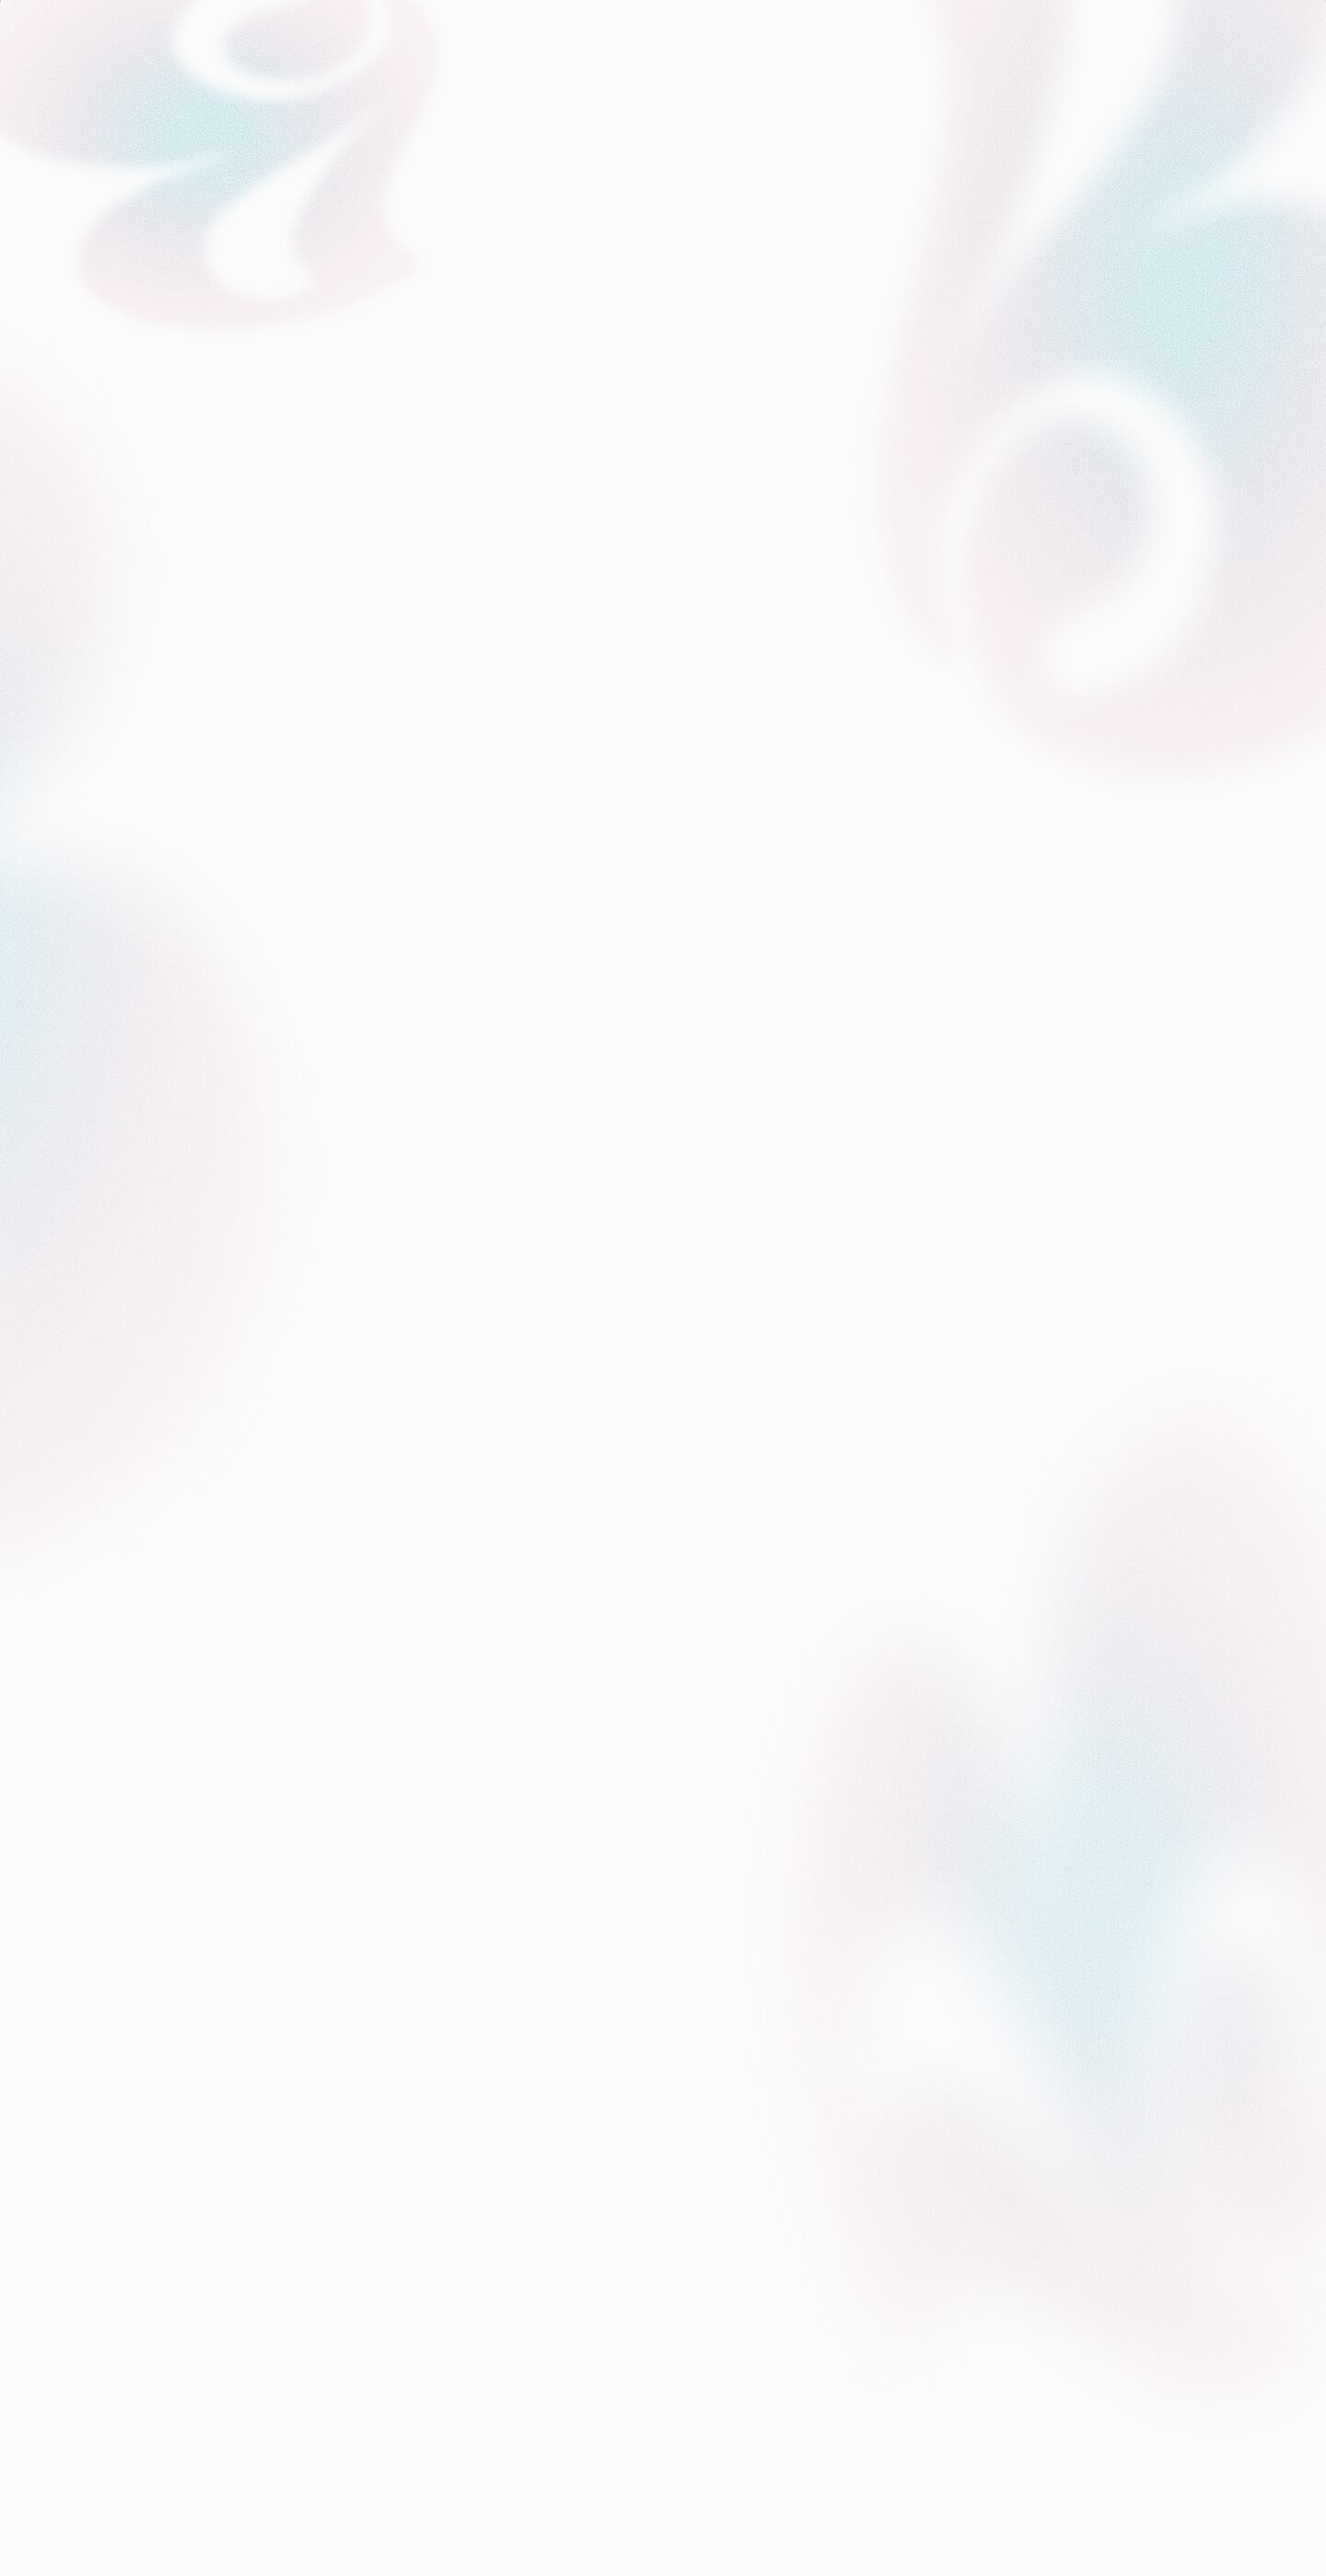
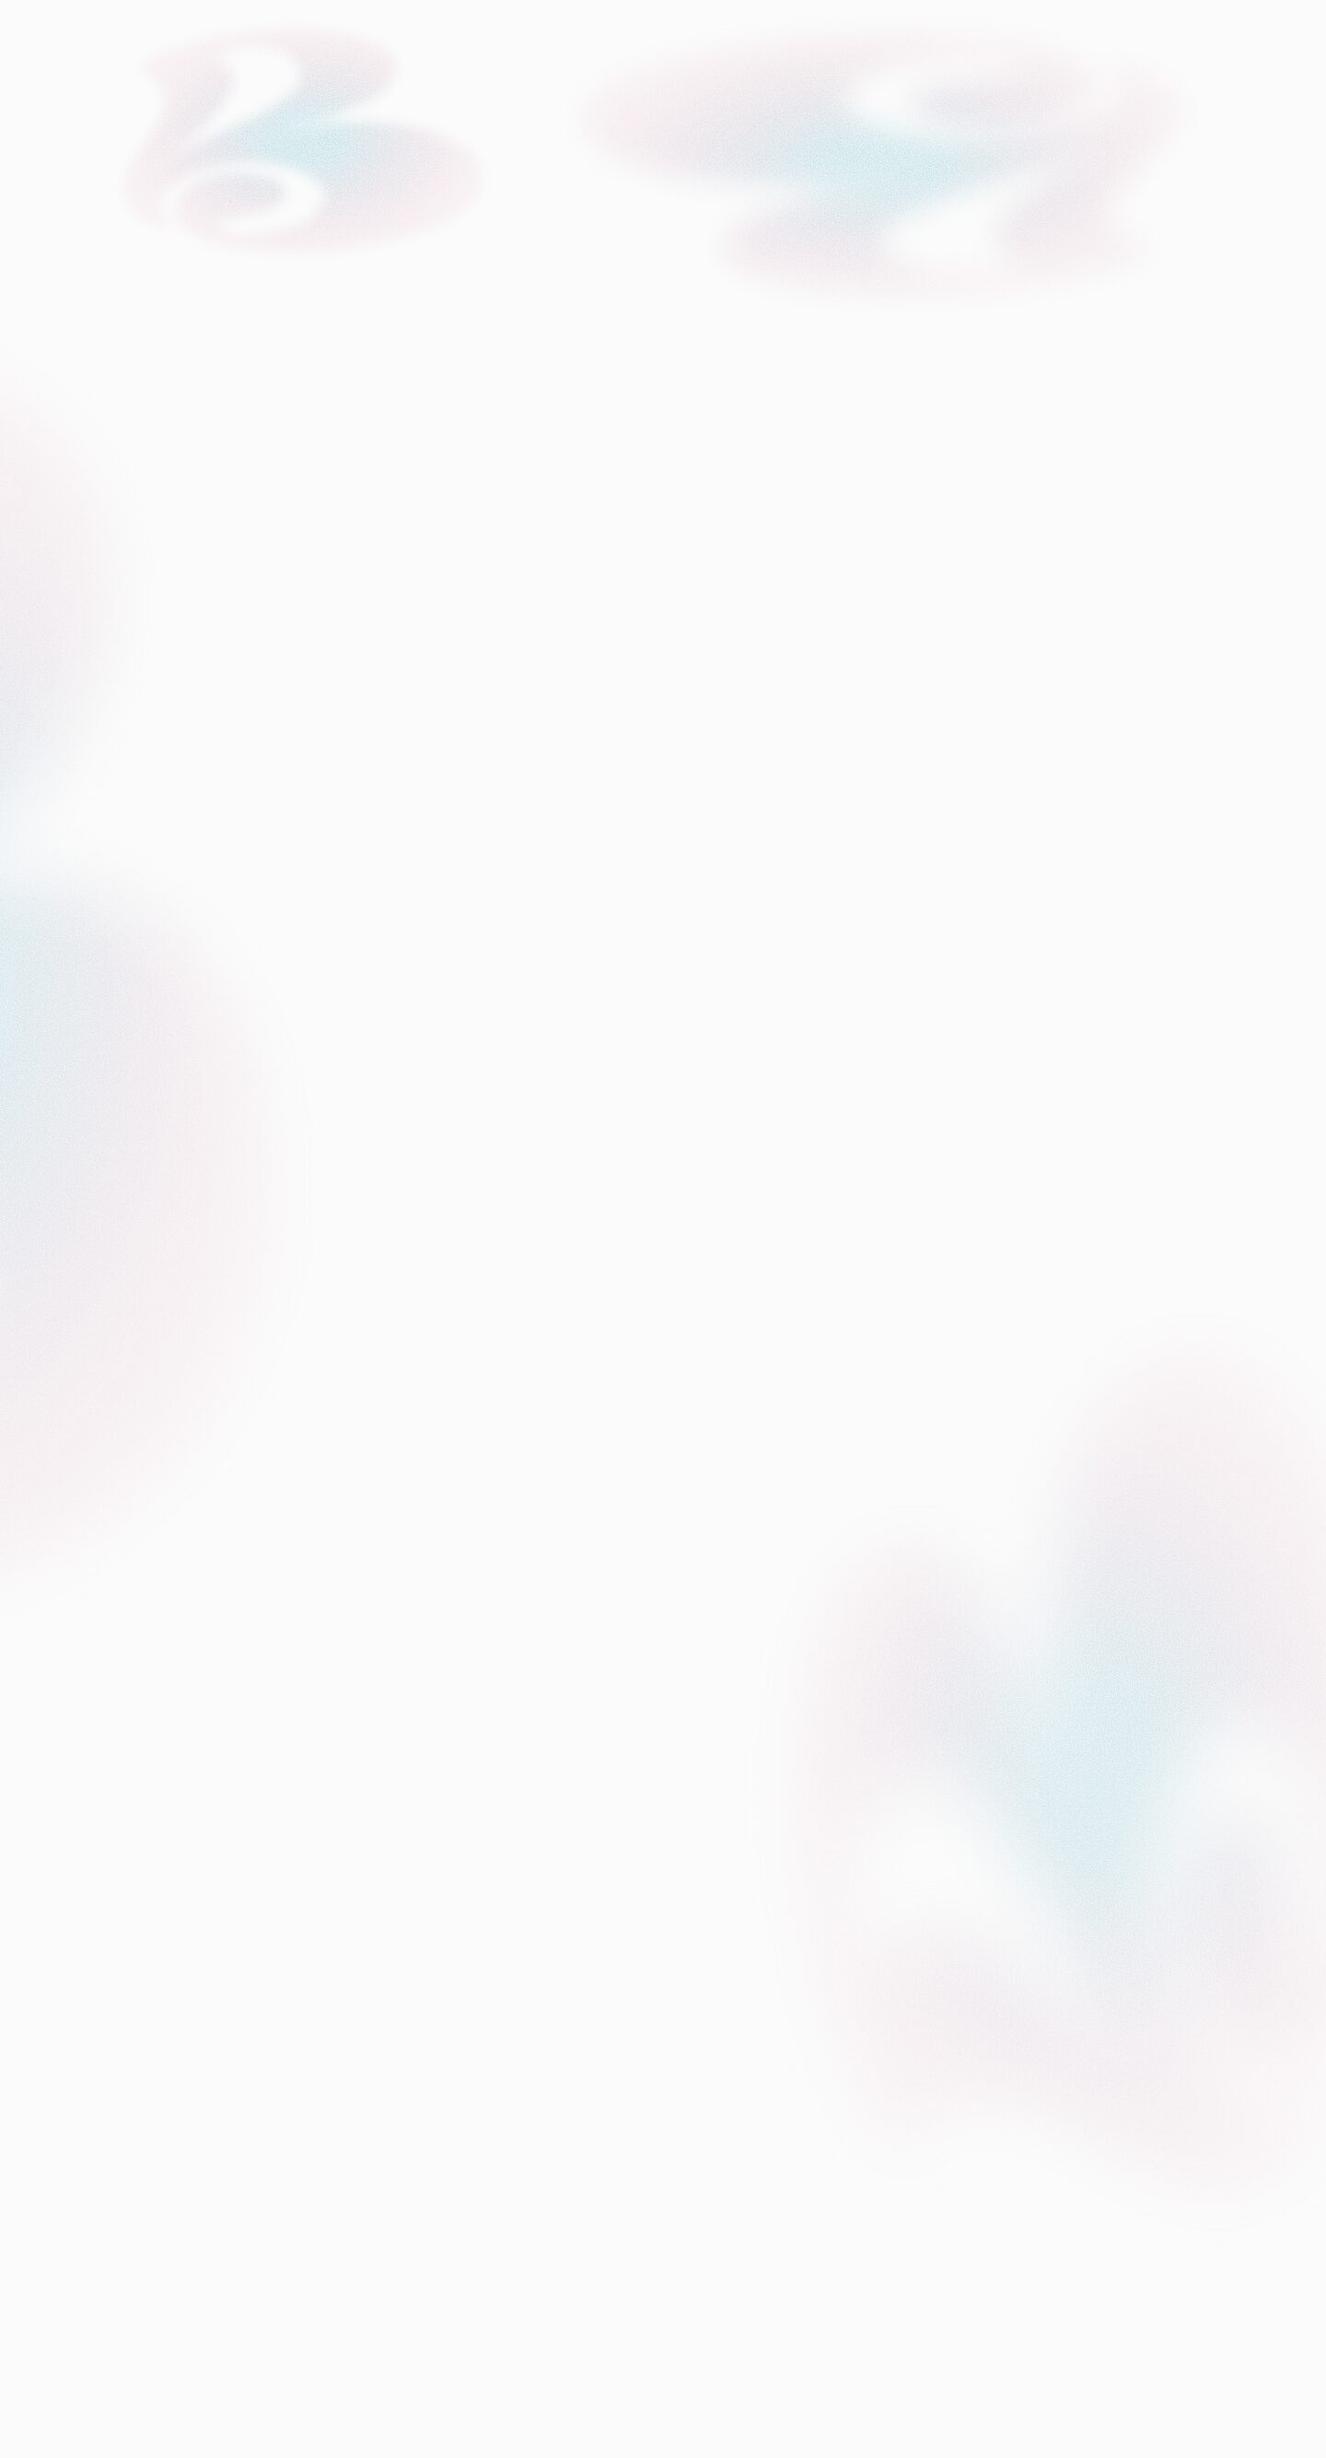
Home: sync with updated Figma mock-up (nav, name weight, wider mosaic, swirls, footer)
Claude-Session: https://claude.ai/code/session_01BTVQWqZsRjn6QnVQHH6sLA

diff --git a/css/style.css b/css/style.css
@@ -20,9 +20,10 @@ a{color:inherit;text-decoration:none}
 .wrap{max-width:var(--max);margin:0 auto;padding:0 var(--pad)}
 
 /* nav — sizes follow the 1440 Figma frame, scaled with the window */
-.nav{display:flex;justify-content:space-between;align-items:center;height:max(48px,min(4.1vw,59px));padding:0 max(20px,min(2.78vw,40px));background:#fff;position:relative;z-index:5}
-.nav .name,.nav .links,.menu-btn{font-family:var(--mono);font-size:max(14px,min(1.39vw,20px));font-weight:400;color:var(--muted)}
-.nav .links{display:flex;gap:max(24px,min(3.9vw,56px))}
+.nav{display:flex;justify-content:space-between;align-items:center;height:max(48px,min(4.1vw,59px));padding:0 max(20px,min(10.83vw,156px)) 0 max(20px,min(8.89vw,128px));background:#fff;position:relative;z-index:5}
+.nav .name,.nav .links,.menu-btn{font-family:var(--font);font-size:14px;font-weight:400;color:var(--muted)}
+.nav .name{font-weight:500}
+.nav .links{display:flex;gap:max(28px,min(5.4vw,78px))}
 .nav .links a,.nav .name{transition:color .2s}
 .nav .links a:hover,.nav .links a.on,.nav .name:hover{color:var(--ink)}
 .menu-btn{display:none;background:none;border:0;cursor:pointer}
@@ -31,10 +32,10 @@ a{color:inherit;text-decoration:none}
 .home .sheet{background:var(--bg) url(../images/home/bg.jpg) 0 max(48px,min(4.1vw,59px))/100% auto no-repeat}
 
 /* hero */
-.hero{position:relative;padding-top:min(6.1vw,88px);text-align:center}
-.hero h1{font-size:max(40px,min(5.56vw,80px));font-weight:600;letter-spacing:0;line-height:1;color:#000}
+.hero{position:relative;padding-top:min(7.71vw,111px);text-align:center}
+.hero h1{font-size:max(40px,min(5.56vw,80px));font-weight:500;letter-spacing:0;line-height:1;color:#000}
 .rotator{display:block;font-family:var(--mono);font-weight:500;color:#1A1A1A}
-.rotator.typer{width:min(37.4vw,539px);margin:min(2.29vw,33px) 0 0 calc(50% - min(16.74vw,241px));text-align:left;min-height:min(7.3vw,105px);line-height:1.3;font-size:max(16px,min(1.94vw,28px))}
+.rotator.typer{width:min(37.4vw,539px);margin:min(.97vw,14px) 0 0 calc(50% - min(18.68vw,269px));text-align:left;min-height:min(7.01vw,101px);line-height:1.3;font-size:max(16px,min(1.94vw,28px))}
 .typer .typed{display:inline}
 .caret{display:inline-block;width:2px;height:1.1em;margin-left:3px;vertical-align:-.18em;background:var(--blue);animation:blink 1.05s steps(1) infinite}
 .typer.busy .caret{animation:none}
@@ -44,7 +45,7 @@ a{color:inherit;text-decoration:none}
 .dot{display:inline-block;width:8px;height:8px;border-radius:50%;background:var(--blue);flex:none}
 
 /* mosaic: 3 columns, every column adds up to the same height so the bottoms line up */
-.mosaic{display:grid;grid-template-columns:repeat(3,1fr);column-gap:min(1.11vw,16px);max-width:1440px;margin:0 auto;padding:min(3.4vw,49px) min(6.11vw,88px) min(15.8vw,228px)}
+.mosaic{display:grid;grid-template-columns:480fr 410fr 480fr;align-items:start;column-gap:min(1.18vw,17px);max-width:1440px;margin:0 auto;padding:min(4.79vw,69px) min(1.25vw,18px) min(3.47vw,50px)}
 .col{display:flex;flex-direction:column;gap:min(1.18vw,17px)}
 .slot{position:relative;display:block;background:var(--tile);overflow:hidden}
 .slot img{width:100%;height:100%;object-fit:cover;transition:transform .6s cubic-bezier(.2,.8,.2,1)}
@@ -131,14 +132,15 @@ a.slot:hover .tag,a.slot:focus-visible .tag{opacity:1;transform:none}
 .portrait{aspect-ratio:520/620}
 
 /* footer */
-footer{background:var(--footer);color:#FAFAF8;font-family:var(--mono)}
-footer .in{max-width:1440px;margin:0 auto;padding:min(3.75vw,54px) min(5.2vw,75px) min(3.5vw,51px) min(5.97vw,86px);display:flex;justify-content:space-between;gap:40px}
-footer h2{font-size:max(20px,min(2.08vw,30px));font-weight:500;line-height:1.3}
-footer .upd{color:var(--muted);margin-top:min(7.2vw,104px);font-size:max(12px,min(1.39vw,20px))}
-footer .cols{display:flex;gap:min(5.1vw,74px);font-size:max(13px,min(1.39vw,20px))}
-footer .cols>div{min-width:max(80px,min(7.6vw,110px))}
-footer .cols h5{font-size:inherit;font-weight:700;margin-bottom:min(1.6vw,23px)}
-footer .cols a{display:block;color:var(--muted);margin-bottom:min(1.6vw,23px);line-height:1.3;transition:color .2s}
+footer{background:var(--footer);color:#FAFAF8}
+footer .in{max-width:1440px;margin:0 auto;padding:min(2.78vw,40px) min(3.26vw,47px) min(2.85vw,41px) min(3.19vw,46px);display:flex;justify-content:space-between;gap:40px}
+footer h2{font-family:var(--mono);font-size:max(20px,min(1.94vw,28px));font-weight:500;line-height:1.3}
+footer .upd{color:var(--muted);margin-top:min(5.97vw,86px);font-size:14px}
+footer .cols{display:flex;font-size:14px;line-height:18px;padding-top:min(.76vw,11px)}
+footer .cols>div{min-width:max(110px,min(11.1vw,160px))}
+footer .cols>div:last-child{min-width:0}
+footer .cols h5{font-size:14px;font-weight:700;margin-bottom:16px}
+footer .cols a{display:block;color:var(--muted);margin-bottom:16px;transition:color .2s}
 footer .cols a:last-child{margin-bottom:0}
 footer .cols a:hover{color:#fff}
 
@@ -149,6 +151,7 @@ footer .cols a:hover{color:#fff}
 @media (max-width:760px){
   :root{--pad:20px}
   .sheet{border-radius:0 0 32px 32px}
+  .nav{padding:0 20px}
   .nav .links{display:none;position:absolute;top:48px;left:0;right:0;background:#fff;flex-direction:column;gap:18px;padding:20px;font-size:16px;box-shadow:0 8px 16px rgba(0,0,0,.05)}
   .nav.open .links{display:flex}
   .menu-btn{display:block}
@@ -156,7 +159,7 @@ footer .cols a:hover{color:#fff}
   .hero h1{font-size:44px}
   .rotator.typer{width:auto;margin:16px 0 0;font-size:17px;min-height:2.7em}
   .creds{flex-direction:column;align-items:center;gap:6px;font-size:14px;margin-top:8px}
-  .mosaic{grid-template-columns:1fr;row-gap:12px;padding:32px 20px 72px}
+  .mosaic{grid-template-columns:1fr;row-gap:12px;padding:32px 20px 56px}
   .col{display:contents}
   .slot.empty{display:none}
   .slot .tag{opacity:1;transform:none;left:8px;bottom:8px;font-size:10px;padding:4px 7px}

diff --git a/index.html b/index.html
@@ -7,7 +7,7 @@
 <meta name="description" content="Bua Gomutputra — designer who engineers. Arts, Technology & the Business of Innovation at USC Iovine and Young. Based in Los Angeles.">
 <link rel="preconnect" href="https://fonts.googleapis.com"><link rel="preconnect" href="https://fonts.gstatic.com" crossorigin>
 <link href="https://fonts.googleapis.com/css2?family=Geist:wght@400;500;600&family=Geist+Mono:wght@400;500;700&family=Kiwi+Maru:wght@400;500&display=swap" rel="stylesheet">
-<link rel="stylesheet" href="css/style.css?v=1794968742">
+<link rel="stylesheet" href="css/style.css?v=1794969485">
 </head>
 <body class="home">
 <div class="sheet">
@@ -26,25 +26,26 @@
 <main id="work">
   <section class="mosaic">
     <div class="col">
-      <a class="slot" href="sideby.html" style="aspect-ratio:410/394" data-slot="1"><img src="images/sideby/hero.jpg" alt="SideBy" data-label="SideBy" style="object-position:left center"><span class="tag"><b>SideBy</b> Concept · 2026</span></a>
-      <a class="slot" href="duolingo-poker.html" style="aspect-ratio:410/462" data-slot="2"><img src="images/duolingo-poker/cover.jpg" alt="DuoPoker" data-label="DuoPoker" style="object-fit:contain;background:#fff"><span class="tag"><b>DuoPoker</b> Concept · 2026</span></a>
-      <div class="slot empty" style="aspect-ratio:410/301" data-slot="3"></div>
-      <div class="slot empty" style="aspect-ratio:410/511" data-slot="4"></div>
-      <div class="slot empty" style="aspect-ratio:410/564" data-slot="5"></div>
+      <a class="slot" href="sideby.html" style="aspect-ratio:480/394" data-slot="1"><img src="images/sideby/hero.jpg" alt="SideBy" data-label="SideBy" style="object-position:left center"><span class="tag"><b>SideBy</b> Concept · 2026</span></a>
+      <a class="slot" href="duolingo-poker.html" style="aspect-ratio:480/462" data-slot="2"><img src="images/duolingo-poker/cover.jpg" alt="DuoPoker" data-label="DuoPoker" style="object-fit:contain;background:#fff"><span class="tag"><b>DuoPoker</b> Concept · 2026</span></a>
+      <div class="slot empty" style="aspect-ratio:480/301" data-slot="3"></div>
+      <div class="slot empty" style="aspect-ratio:480/511" data-slot="4"></div>
+      <div class="slot empty" style="aspect-ratio:480/397" data-slot="5"></div>
     </div>
     <div class="col">
-      <div class="slot empty" style="aspect-ratio:410/813" data-slot="6"></div>
-      <div class="slot empty" style="aspect-ratio:410/394" data-slot="7"></div>
-      <div class="slot empty" style="aspect-ratio:410/303" data-slot="8"></div>
-      <div class="slot empty" style="aspect-ratio:410/389" data-slot="9"></div>
-      <div class="slot empty" style="aspect-ratio:410/333" data-slot="10"></div>
+      <div class="slot empty" style="aspect-ratio:410/401" data-slot="6"></div>
+      <div class="slot empty" style="aspect-ratio:410/396" data-slot="7"></div>
+      <div class="slot empty" style="aspect-ratio:410/394" data-slot="8"></div>
+      <div class="slot empty" style="aspect-ratio:410/303" data-slot="9"></div>
+      <div class="slot empty" style="aspect-ratio:410/389" data-slot="10"></div>
+      <div class="slot empty" style="aspect-ratio:410/333" data-slot="11"></div>
     </div>
     <div class="col">
-      <a class="slot" href="ecopinet.html" style="aspect-ratio:410/462" data-slot="11"><img src="images/ecopinet/cover.jpg" alt="EcoPinet" data-label="EcoPinet"><span class="tag"><b>EcoPinet</b> Piloted · 2025</span></a>
-      <div class="slot empty" style="aspect-ratio:410/347" data-slot="12"></div>
-      <div class="slot empty" style="aspect-ratio:410/566" data-slot="13"></div>
-      <div class="slot empty" style="aspect-ratio:410/438" data-slot="14"></div>
-      <div class="slot empty" style="aspect-ratio:410/419" data-slot="15"></div>
+      <a class="slot" href="ecopinet.html" style="aspect-ratio:480/462" data-slot="12"><img src="images/ecopinet/cover.jpg" alt="EcoPinet" data-label="EcoPinet"><span class="tag"><b>EcoPinet</b> Piloted · 2025</span></a>
+      <div class="slot empty" style="aspect-ratio:480/347" data-slot="13"></div>
+      <div class="slot empty" style="aspect-ratio:480/566" data-slot="14"></div>
+      <div class="slot empty" style="aspect-ratio:480/438" data-slot="15"></div>
+      <div class="slot empty" style="aspect-ratio:480/330" data-slot="16"></div>
     </div>
   </section>
 </main>
@@ -60,6 +61,6 @@
     </div>
   </div>
 </footer>
-<script src="js/main.js?v=1794968742"></script>
+<script src="js/main.js?v=1794969485"></script>
 </body>
 </html>

diff --git a/ecopinet.html b/ecopinet.html
@@ -7,7 +7,7 @@
 <meta name="description" content="EcoPinet: seed-embedded packaging made from pineapple waste that would otherwise be burned. Co-founded social enterprise, 1st place AIHM Business Plan Competition 2025.">
 <link rel="preconnect" href="https://fonts.googleapis.com"><link rel="preconnect" href="https://fonts.gstatic.com" crossorigin>
 <link href="https://fonts.googleapis.com/css2?family=Geist:wght@400;500;600&family=Geist+Mono:wght@400;500;700&family=Kiwi+Maru:wght@400;500&display=swap" rel="stylesheet">
-<link rel="stylesheet" href="css/style.css?v=1794968742">
+<link rel="stylesheet" href="css/style.css?v=1794969485">
 </head>
 <body class="theme-eco">
 <div class="sheet">
@@ -133,6 +133,6 @@
     </div>
   </div>
 </footer>
-<script src="js/main.js?v=1794968742"></script>
+<script src="js/main.js?v=1794969485"></script>
 </body>
 </html>

diff --git a/sideby.html b/sideby.html
@@ -7,7 +7,7 @@
 <meta name="description" content="SideBy: relationship-safety support that dating platforms offer inside their messaging. ACAD 183 team project.">
 <link rel="preconnect" href="https://fonts.googleapis.com"><link rel="preconnect" href="https://fonts.gstatic.com" crossorigin>
 <link href="https://fonts.googleapis.com/css2?family=Geist:wght@400;500;600&family=Geist+Mono:wght@400;500;700&family=Kiwi+Maru:wght@400;500&family=Instrument+Serif:ital@1&family=Source+Serif+4&display=swap" rel="stylesheet">
-<link rel="stylesheet" href="css/style.css?v=1794968742">
+<link rel="stylesheet" href="css/style.css?v=1794969485">
 </head>
 <body class="theme-sideby">
 <div class="sheet">
@@ -121,6 +121,6 @@
     </div>
   </div>
 </footer>
-<script src="js/main.js?v=1794968742"></script>
+<script src="js/main.js?v=1794969485"></script>
 </body>
 </html>

diff --git a/duolingo-poker.html b/duolingo-poker.html
@@ -7,7 +7,7 @@
 <meta name="description" content="Duolingo Poker: a beginner poker course concept for Duolingo, taught by Tony. Team project.">
 <link rel="preconnect" href="https://fonts.googleapis.com"><link rel="preconnect" href="https://fonts.gstatic.com" crossorigin>
 <link href="https://fonts.googleapis.com/css2?family=Geist:wght@400;500;600&family=Geist+Mono:wght@400;500;700&family=Kiwi+Maru:wght@400;500&display=swap" rel="stylesheet">
-<link rel="stylesheet" href="css/style.css?v=1794968742">
+<link rel="stylesheet" href="css/style.css?v=1794969485">
 </head>
 <body class="theme-duo">
 <div class="sheet">
@@ -91,6 +91,6 @@
     </div>
   </div>
 </footer>
-<script src="js/main.js?v=1794968742"></script>
+<script src="js/main.js?v=1794969485"></script>
 </body>
 </html>

diff --git a/about.html b/about.html
@@ -7,7 +7,7 @@
 <meta name="description" content="About Bua Gomutputra, a designer and builder based in LA.">
 <link rel="preconnect" href="https://fonts.googleapis.com"><link rel="preconnect" href="https://fonts.gstatic.com" crossorigin>
 <link href="https://fonts.googleapis.com/css2?family=Geist:wght@400;500;600&family=Geist+Mono:wght@400;500;700&family=Kiwi+Maru:wght@400;500&display=swap" rel="stylesheet">
-<link rel="stylesheet" href="css/style.css?v=1794968742">
+<link rel="stylesheet" href="css/style.css?v=1794969485">
 </head>
 <body>
 <div class="sheet">
@@ -39,6 +39,6 @@
     </div>
   </div>
 </footer>
-<script src="js/main.js?v=1794968742"></script>
+<script src="js/main.js?v=1794969485"></script>
 </body>
 </html>
